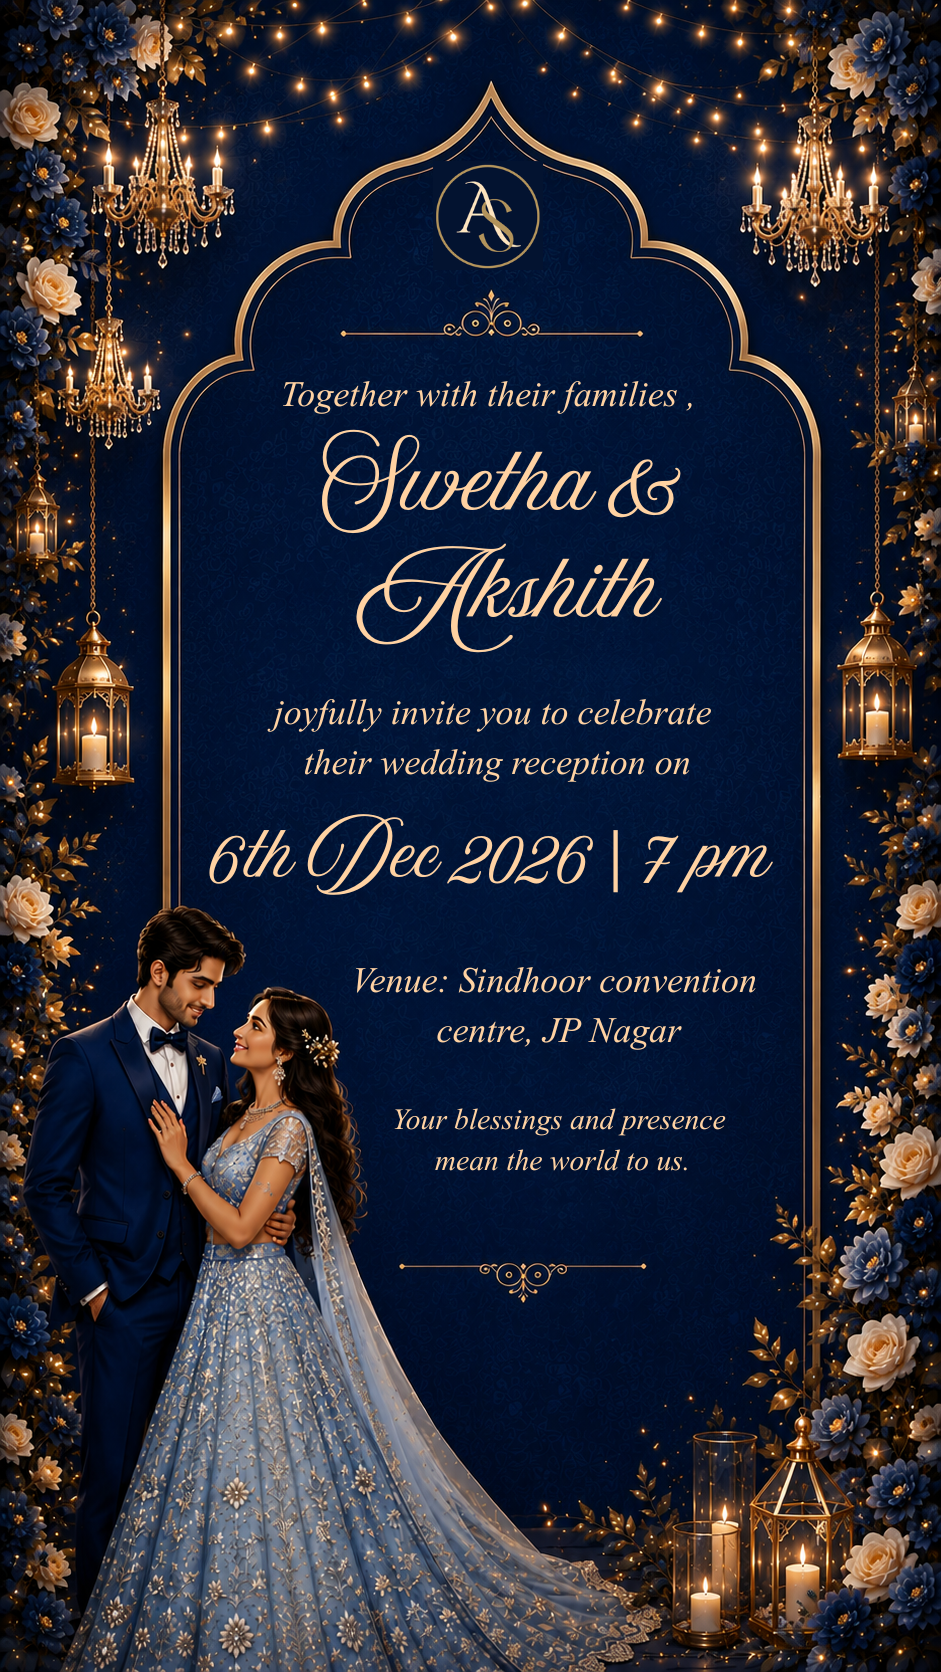
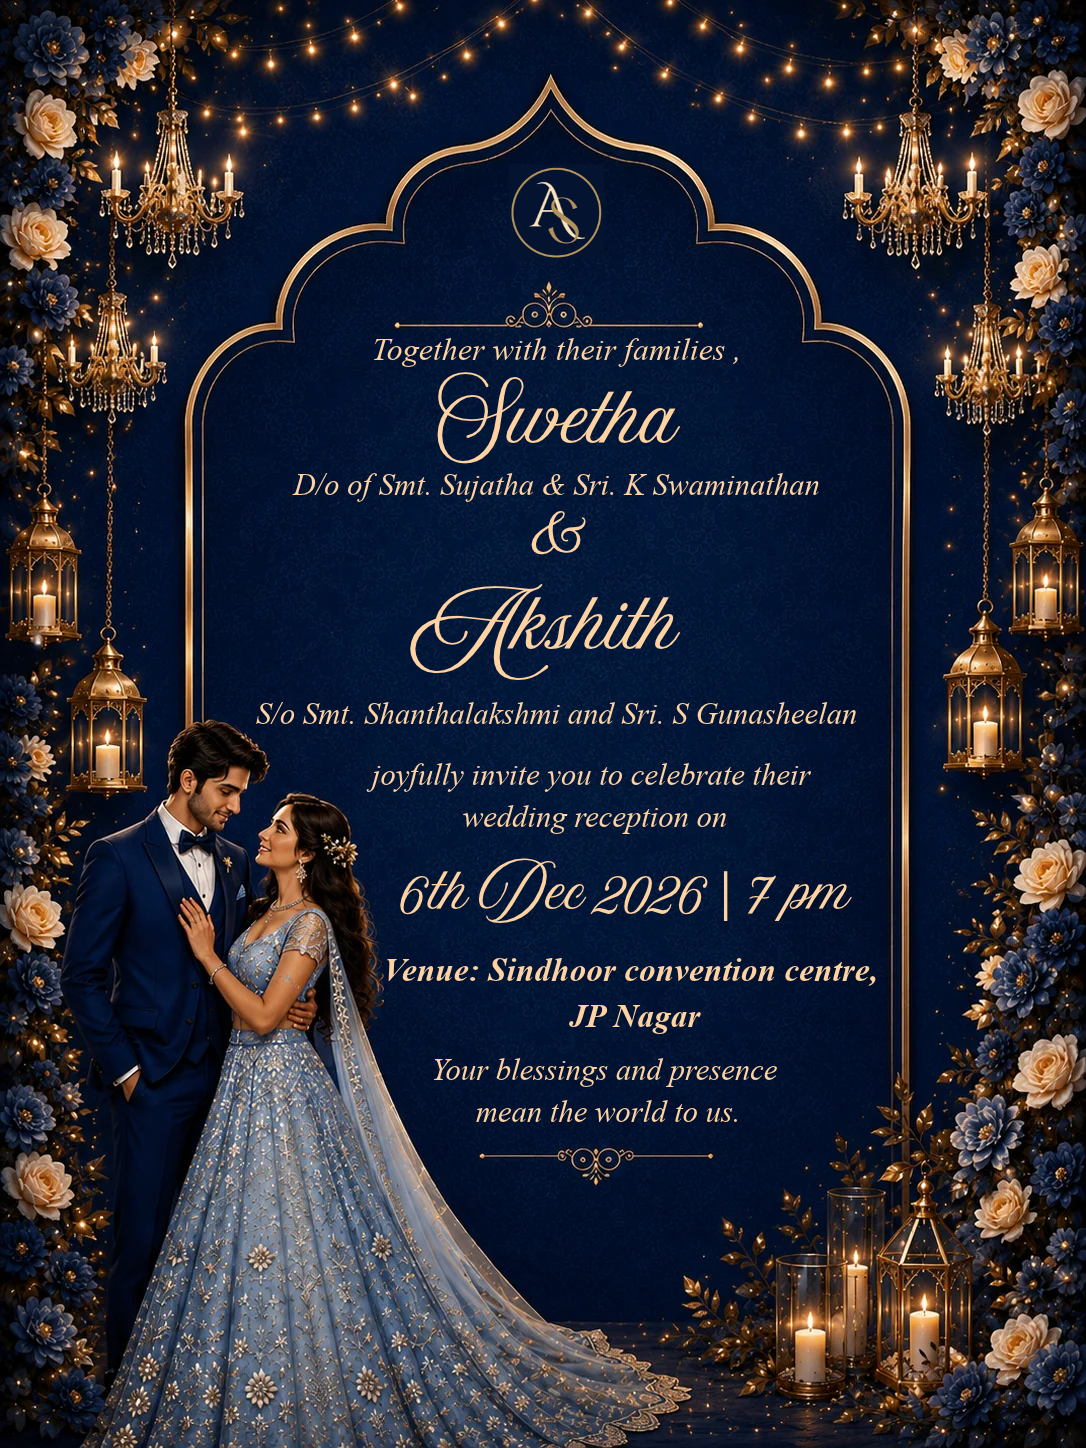
Add persistent scroll-down hint for mobile guests (#28)
* Adding new path for varapuja

* Added scroll hint

* minor timing tweak

diff --git a/src/index.css b/src/index.css
@@ -1200,6 +1200,76 @@ body.lb-open {
   overflow: clip;
 }
 
+/* ============ Scroll-down hint ============ */
+.scroll-hint {
+  position: fixed;
+  left: 50%;
+  bottom: max(1.1rem, env(safe-area-inset-bottom));
+  transform: translateX(-50%);
+  z-index: 90;
+  display: inline-flex;
+  align-items: center;
+  gap: 0.55rem;
+  padding: 0.65rem 1.1rem;
+  border: 1px solid var(--gold);
+  border-radius: 999px;
+  background: linear-gradient(135deg, var(--maroon), var(--maroon-deep));
+  color: var(--gold-pale);
+  font-family: "Cormorant Garamond", Georgia, serif;
+  font-size: 0.95rem;
+  font-weight: 600;
+  letter-spacing: 0.01em;
+  white-space: nowrap;
+  box-shadow: 0 6px 24px rgba(74, 8, 16, 0.35);
+  cursor: pointer;
+  animation:
+    scroll-hint-in 0.4s ease both,
+    scroll-hint-bob 1.8s ease-in-out 0.4s infinite;
+}
+
+.scroll-hint-arrow {
+  display: inline-block;
+  animation: chev-bounce 1.6s ease-in-out infinite;
+}
+
+body.lb-open .scroll-hint {
+  display: none;
+}
+
+@keyframes scroll-hint-in {
+  from {
+    opacity: 0;
+    transform: translateX(-50%) translateY(14px);
+  }
+  to {
+    opacity: 1;
+    transform: translateX(-50%) translateY(0);
+  }
+}
+
+@keyframes scroll-hint-bob {
+  0%,
+  100% {
+    transform: translateX(-50%) translateY(0);
+  }
+  50% {
+    transform: translateX(-50%) translateY(-5px);
+  }
+}
+
+@media (min-width: 720px) {
+  .scroll-hint-text {
+    font-size: 1rem;
+  }
+}
+
+@media (max-width: 360px) {
+  .scroll-hint-text {
+    white-space: normal;
+    max-width: 58vw;
+  }
+}
+
 /* Scratch coating canvas (shared by the lightbox card) */
 .scratch-canvas {
   position: absolute;
@@ -2001,6 +2071,8 @@ body.lb-open {
   .thoranam span,
   .overlay-hint,
   .scroll-cue .chev,
+  .scroll-hint,
+  .scroll-hint-arrow,
   .thumb-badge,
   .burst-petal,
   .lb-drum.hit .lb-drum-art {

diff --git a/src/data/events.ts b/src/data/events.ts
@@ -118,7 +118,12 @@ export const CARD_MESSAGES: Record<string, string> = {
 
 // ─── Guest tiers ─────────────────────────────────────────────────────────────
 
-export type GuestTier = "all" | "no-haldi" | "core" | "muhurtham-reception";
+export type GuestTier =
+  | "all"
+  | "no-haldi"
+  | "core"
+  | "muhurtham-reception"
+  | "no-varapooje";
 
 /**
  * Share the matching URL hash with each guest group:
@@ -126,12 +131,14 @@ export type GuestTier = "all" | "no-haldi" | "core" | "muhurtham-reception";
  *   No Haldi          →  …/invitation/#qn7pt
  *   Core only         →  …/invitation/#rz4bw  (no Haldi, no Varapooje)
  *   Muhurtham + Reception only →  …/invitation/#wt5jc
+ *   No Varapooje      →  …/invitation/#hb3nx  (Haldi, Sangeeth, Muhurtham, Reception)
  */
 export const GUEST_TOKENS: Record<string, GuestTier> = {
   xk9mv: "all",
   qn7pt: "no-haldi",
   rz4bw: "core",
   wt5jc: "muhurtham-reception",
+  hb3nx: "no-varapooje",
 };
 
 export function getEventsForTier(tier: GuestTier): WeddingEvent[] {
@@ -142,6 +149,8 @@ export function getEventsForTier(tier: GuestTier): WeddingEvent[] {
     return ALL_EVENTS.filter(
       (e) => e.id === "muhurtham" || e.id === "reception",
     );
+  if (tier === "no-varapooje")
+    return ALL_EVENTS.filter((e) => e.id !== "varapooje");
   return ALL_EVENTS;
 }
 

diff --git a/src/components/ScrollHint.tsx b/src/components/ScrollHint.tsx
@@ -1,0 +1,49 @@
+import { useEffect, useState } from "react";
+
+/**
+ * Floating bottom banner that nudges guests (mobile especially) to scroll
+ * through the invite — stays visible until they reach the bottom of the page.
+ */
+export default function ScrollHint() {
+  const [visible, setVisible] = useState(false);
+  const [atEnd, setAtEnd] = useState(false);
+
+  useEffect(() => {
+    const showTimer = setTimeout(() => setVisible(true), 1500);
+    return () => clearTimeout(showTimer);
+  }, []);
+
+  useEffect(() => {
+    if (!visible) return;
+    const onScroll = () => {
+      const scrolledToEnd =
+        window.innerHeight + window.scrollY >=
+        document.documentElement.scrollHeight - 24;
+      setAtEnd(scrolledToEnd);
+    };
+    onScroll();
+    window.addEventListener("scroll", onScroll, { passive: true });
+    return () => window.removeEventListener("scroll", onScroll);
+  }, [visible]);
+
+  if (!visible || atEnd) return null;
+
+  return (
+    <button
+      type="button"
+      className="scroll-hint"
+      onClick={() => {
+        document
+          .getElementById("events")
+          ?.scrollIntoView({ behavior: "smooth" });
+      }}
+    >
+      <span className="scroll-hint-arrow" aria-hidden="true">
+        ↓
+      </span>
+      <span className="scroll-hint-text">
+        Scroll down for events, timings &amp; location
+      </span>
+    </button>
+  );
+}

diff --git a/src/App.tsx b/src/App.tsx
@@ -3,6 +3,7 @@ import type { WeddingEvent } from "./data/events";
 import { GUEST_TOKENS, getEventsForTier } from "./data/events";
 import FallingLeaves from "./components/FallingLeaves";
 import GateOverlay from "./components/gate/GateOverlay";
+import ScrollHint from "./components/ScrollHint";
 import Hero from "./components/hero/Hero";
 import EventTimeline from "./components/events/EventTimeline";
 import InfoModal from "./components/events/InfoModal";
@@ -73,6 +74,8 @@ export default function App() {
           <Footer />
         </main>
       )}
+
+      {revealed && <ScrollHint />}
 
       <Lightbox
         event={lightboxEvent}
